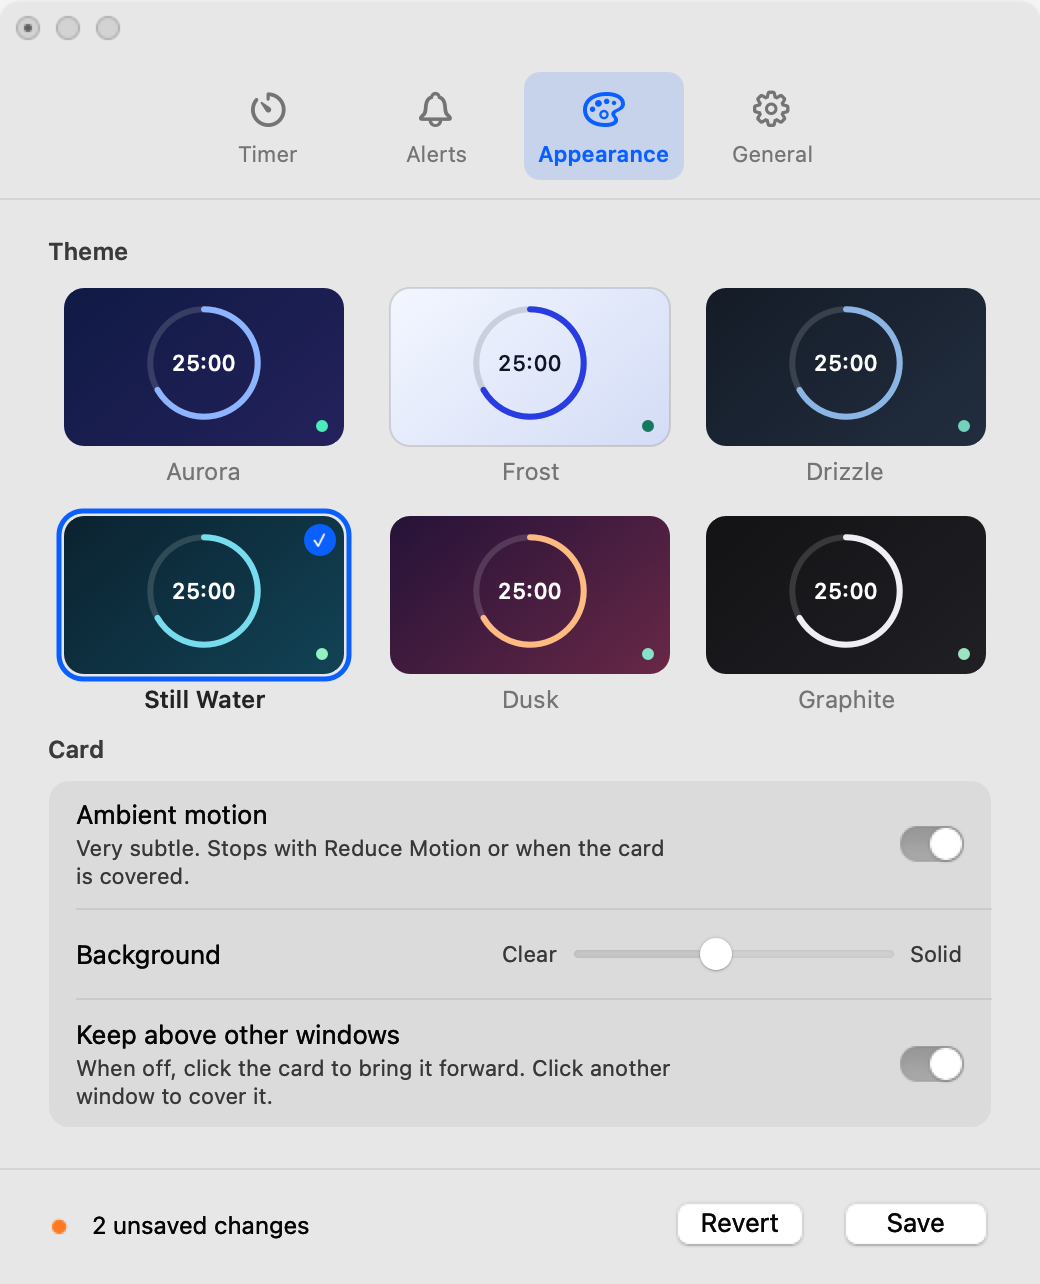
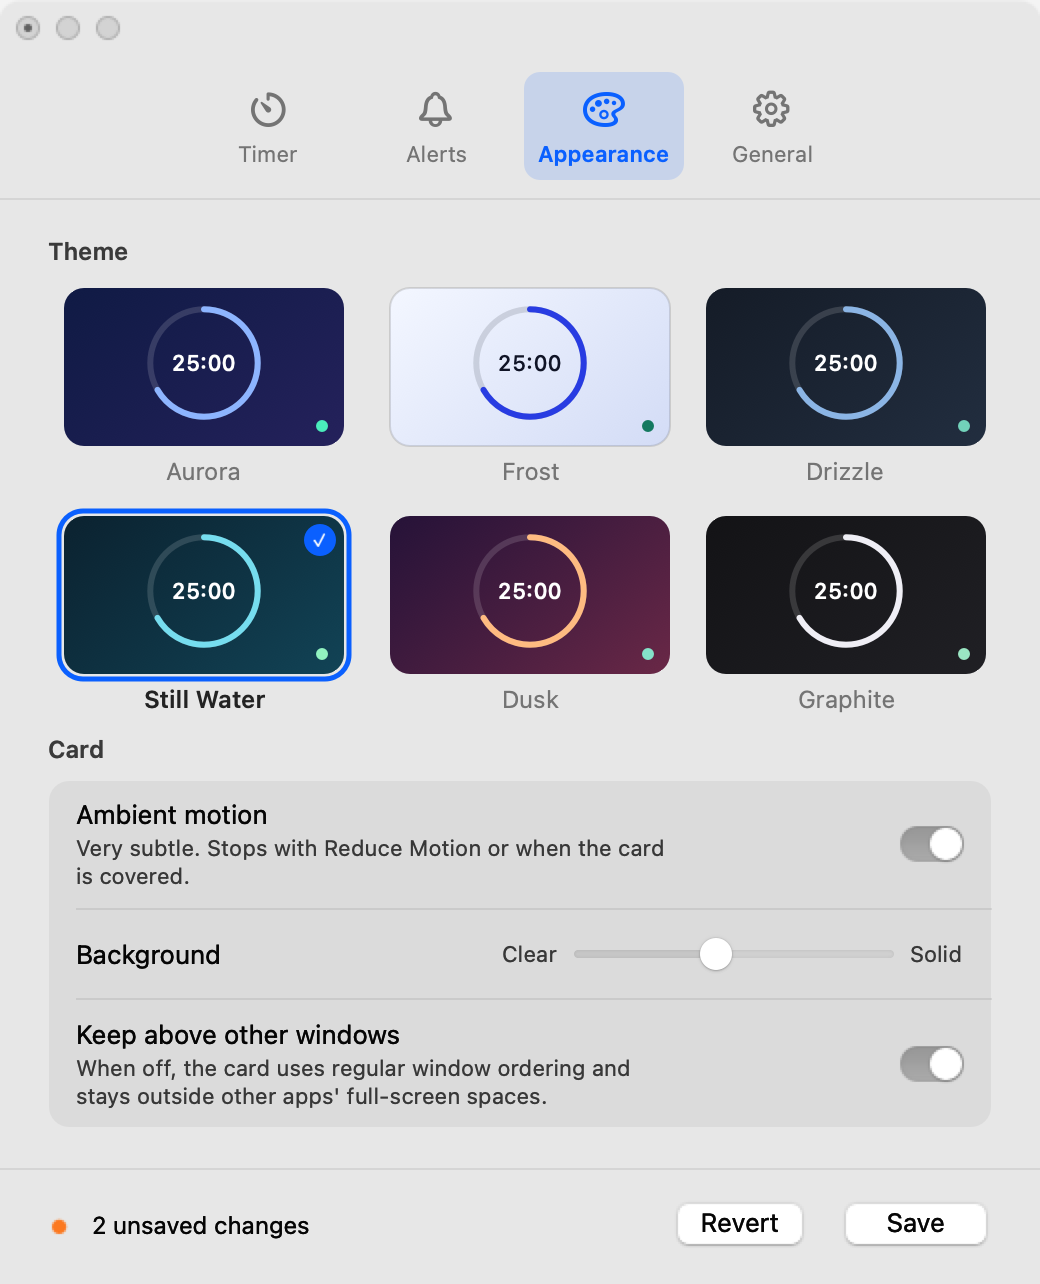
Respect full-screen spaces in normal window mode / 普通窗口模式遵循全屏空间设置

Changed region(s): [[0.0615, 0.81, 0.6462, 0.8723]]

diff --git a/src/FocusCard.m b/src/FocusCard.m
@@ -1409,8 +1409,9 @@ static void setTitle(NSMenuItem *i, NSString *s) { if (i && ![i.title isEqualToS
 
 - (void)applyCardWindowMode {
     self.panel.level = self.pinned ? NSFloatingWindowLevel : NSNormalWindowLevel;
-    self.panel.collectionBehavior = NSWindowCollectionBehaviorCanJoinAllSpaces | NSWindowCollectionBehaviorFullScreenAuxiliary
-        | (self.pinned ? NSWindowCollectionBehaviorStationary : NSWindowCollectionBehaviorManaged);
+    self.panel.collectionBehavior = self.pinned
+        ? NSWindowCollectionBehaviorCanJoinAllSpaces | NSWindowCollectionBehaviorFullScreenAuxiliary | NSWindowCollectionBehaviorStationary
+        : NSWindowCollectionBehaviorManaged | NSWindowCollectionBehaviorFullScreenNone;
 }
 - (void)showCard:(id)sender {
     BOOL onScreen = NO;
@@ -1732,7 +1733,7 @@ static const CGFloat kSettingsW = 520, kSettingsTop = 74, kSettingsBottom = 58;
     GroupBox *card = [self group:@[
         [self rowTitle:T(@"环境动效", @"Ambient motion") detail:[self note:T(@"非常轻微。开启“减少动态效果”或卡片被遮挡时自动停止。", @"Very subtle. Stops with Reduce Motion or when the card is covered.") width:300] control:self.ambientSwitch],
         [self rowTitle:T(@"背景", @"Background") detail:nil control:opacity],
-        [self rowTitle:T(@"显示在其他窗口上方", @"Keep above other windows") detail:[self note:T(@"关闭时，点击卡片前置；点击其他窗口时由该窗口覆盖。", @"When off, click the card to bring it forward. Click another window to cover it.") width:300] control:self.pinSwitch]]];
+        [self rowTitle:T(@"显示在其他窗口上方", @"Keep above other windows") detail:[self note:T(@"关闭时按普通窗口切换，不显示在其他应用的全屏空间。", @"When off, the card uses regular window ordering and stays outside other apps' full-screen spaces.") width:300] control:self.pinSwitch]]];
     return [self paneWith:@[[self caption:T(@"主题", @"Theme")], grid, [self caption:T(@"卡片", @"Card")], card]];
 }
 - (NSView *)generalPane {
@@ -2427,6 +2428,7 @@ static void selfTest(NSString *resultsPath) {
     {
         [a showSettingsPane:0 focusDuration:NO];
         CHECK(@"SV-01", @"Settings open clean: Save disabled, 'saved' status", ![a settingsDirty] && !a.saveButton.enabled && !a.revertButton.enabled && a.statusLabel.stringValue.length > 0, a.statusLabel.stringValue);
+        CHECK(@"SV-01a", @"An unpinned card starts outside other apps full-screen spaces", a.panel.collectionBehavior == (NSWindowCollectionBehaviorManaged | NSWindowCollectionBehaviorFullScreenNone), @"");
         a.pinSwitch.state = NSControlStateValueOn; [a switchChanged:a.pinSwitch];
         CHECK(@"SV-02", @"A change marks the draft: Save enabled, '1 unsaved change', nothing stored yet", [a settingsDirty] && a.saveButton.enabled && a.revertButton.enabled && a.settingsWindow.documentEdited
               && [a.statusLabel.stringValue isEqualToString:T(@"1 项未保存的更改", @"1 unsaved change")] && !a.pinned && ![d boolForKey:kPinned] && a.panel.level == NSNormalWindowLevel, a.statusLabel.stringValue);
@@ -2440,8 +2442,10 @@ static void selfTest(NSString *resultsPath) {
         a.pinSwitch.state = NSControlStateValueOn; [a switchChanged:a.pinSwitch]; BOOL saved = [a saveDraft];
         CHECK(@"SV-06", @"Save stores the change, applies it and confirms with the time", saved && a.pinned && [d boolForKey:kPinned] && a.panel.level == NSFloatingWindowLevel && ![a settingsDirty] && !a.saveButton.enabled
               && [a.statusLabel.stringValue hasPrefix:T(@"已保存 · ", @"Saved · ")], a.statusLabel.stringValue);
+        CHECK(@"SV-06a", @"Pinning allows the card in all spaces and full-screen spaces", a.panel.collectionBehavior == (NSWindowCollectionBehaviorCanJoinAllSpaces | NSWindowCollectionBehaviorFullScreenAuxiliary | NSWindowCollectionBehaviorStationary), @"");
         saveSetting(a, kPinned, @NO);
         CHECK(@"SV-07", @"Turning it off uses regular application window ordering", a.panel.level == NSNormalWindowLevel && !(a.panel.collectionBehavior & NSWindowCollectionBehaviorStationary) && ![d boolForKey:kPinned], @"");
+        CHECK(@"SV-07a", @"Saving unpinned mode removes full-screen and all-space participation", a.panel.collectionBehavior == (NSWindowCollectionBehaviorManaged | NSWindowCollectionBehaviorFullScreenNone), @"");
         [a durationEditedText:@"abc" rest:NO];
         CHECK(@"SV-08", @"An invalid length is explained and the field returns to the last valid value", [a.focusField.stringValue isEqualToString:@"25"] && [a.durationNote.textColor isEqual:NSColor.systemRedColor], a.durationNote.stringValue);
         a.focusField.stringValue = @"0"; [a controlTextDidChange:[NSNotification notificationWithName:NSControlTextDidChangeNotification object:a.focusField]];
@@ -2963,8 +2967,10 @@ static BOOL windowIsAbove(NSWindow *front, NSWindow *back) {
     [self step:@"UI-20" desc:@"Click Save: stored, 'Saved' with the time, Save disabled, running timer unchanged" wait:.5 shots:@[@"settings"] action:^(AppDelegate *a) { postClick(a.saveButton); }
          check:^NSString *(AppDelegate *a) { NSString *r = saved(a); return r ?: expect(a.focusMinutes == 41 && [a.defaults integerForKey:kFocus] == 41 && a.running && [a secondsRemaining] <= 1500, S(@"min=%ld", (long)a.focusMinutes)); }];
     [self step:@"UI-21" desc:@"Turn on 'Keep above': not applied until Save; Save floats the card" wait:.5 shots:@[] action:^(AppDelegate *a) { press(a.paneButtons[2]); toggleSwitch(a.pinSwitch); }
-         check:^NSString *(AppDelegate *a) { BOOL waiting = a.panel.level == NSNormalWindowLevel && [a settingsDirty]; press(a.saveButton); BOOL on = a.panel.level == NSFloatingWindowLevel && a.pinned;
-                                             toggleSwitch(a.pinSwitch); press(a.saveButton); BOOL off = a.panel.level == NSNormalWindowLevel && !a.pinned;
+         check:^NSString *(AppDelegate *a) { BOOL waiting = a.panel.level == NSNormalWindowLevel && [a settingsDirty]; press(a.saveButton); BOOL on = a.panel.level == NSFloatingWindowLevel && a.pinned
+                                                 && (a.panel.collectionBehavior & NSWindowCollectionBehaviorFullScreenAuxiliary) && (a.panel.collectionBehavior & NSWindowCollectionBehaviorCanJoinAllSpaces);
+                                             toggleSwitch(a.pinSwitch); press(a.saveButton); BOOL off = a.panel.level == NSNormalWindowLevel && !a.pinned
+                                                 && a.panel.collectionBehavior == (NSWindowCollectionBehaviorManaged | NSWindowCollectionBehaviorFullScreenNone);
                                              NSPoint p = [a.saveButton convertPoint:NSMakePoint(NSMidX(a.saveButton.bounds), NSMidY(a.saveButton.bounds)) toView:nil];
                                              NSView *hit = [a.settingsWindow.contentView.superview hitTest:[a.settingsWindow.contentView.superview convertPoint:p fromView:nil]];
                                              return expect(waiting && on && off, S(@"waiting=%d on=%d off=%d hit=%@ enabled=%d", waiting, on, off, hit.className, a.saveButton.enabled)); }];

diff --git a/docs/TESTING.md b/docs/TESTING.md
@@ -1,4 +1,4 @@
-# Validation report · FocusCard 3.1.3
+# Validation report · FocusCard 3.1.4
 
 [English](TESTING.md) | [简体中文](TESTING.zh-CN.md)
 
@@ -12,7 +12,7 @@ Date: 2026-10-21, Asia/Shanghai.
 | Architecture | Apple Silicon, arm64 |
 | SDK | macOS 15.2 |
 | Minimum build target | macOS 13.0 |
-| App version / build | 3.1.3 / 7 |
+| App version / build | 3.1.4 / 8 |
 | Signature | Ad hoc |
 | Apple notarization | None |
 
@@ -20,14 +20,14 @@ Date: 2026-10-21, Asia/Shanghai.
 
 | Suite | Passed | Failed | Blocked |
 | --- | ---: | ---: | ---: |
-| Chinese self-tests | 185 | 0 | 0 |
-| English self-tests | 185 | 0 | 0 |
-| Chinese live UI tests | 63 | 0 | 3 |
-| English live UI tests | 63 | 0 | 3 |
-| Total | 496 | 0 | 6 |
+| Chinese self-tests | 188 | 0 | 0 |
+| English self-tests | 188 | 0 | 0 |
+| Chinese live UI tests | 65 | 0 | 1 |
+| English live UI tests | 65 | 0 | 1 |
+| Total | 506 | 0 | 2 |
 
-The six blocked entries cover window drag, Command-W on the card, and Command-W on Settings in both languages.
-The keyboard checks need the test app to retain foreground focus.
+The table uses the latest complete run of each suite.
+Two blocked entries cover window drag, one in each language.
 They do not count as passes.
 
 ## Coverage
@@ -48,10 +48,11 @@ The self-tests model notification delivery and login registration.
 The live UI tests also replace these system operations.
 The tests do not change notification permission or login registration.
 
-A separate application window also covered the unpinned card when it activated.
-A computer-use click on the card brought the card above that window again.
-Window-server metadata showed that both windows used level 0.
-This check does not replace a physical mouse check.
+The self-tests check the window-space policy at startup and after both pinning changes.
+A separate native application also entered a full-screen space.
+The unpinned card stayed outside that space.
+The pinned card appeared in that space at window level 3.
+These two integration checks are separate from the suite totals above.
 
 ## Performance samples
 
@@ -61,17 +62,20 @@ These samples do not establish a long-term performance guarantee.
 
 | Measurement | Chinese run | English run | Test limit |
 | --- | ---: | ---: | ---: |
-| CPU, running with Drizzle motion | 1.05% | 1.24% | Below 2% |
-| CPU, idle with Graphite | 0.03% | 0.03% | Below 0.5% |
-| CPU, idle with card hidden | 0.13% | 0.09% | Diagnostic only |
-| Resident memory after UI tests | 77.9 MB | 53.0 MB | Below 120 MB |
+| CPU, running with Drizzle motion | 1.19% | 1.41% | Below 2% |
+| CPU, idle with Graphite | 0.04% | 0.03% | Below 0.5% |
+| CPU, idle with card hidden | 0.11% | 0.11% | Diagnostic only |
+| Resident memory after UI tests | 82.30 MB | 61.20 MB | Below 120 MB |
+
+Initial idle CPU samples reached 0.92% in Chinese and 1.63% in English, above the 0.5% limit.
+The complete repeated runs passed this limit.
+The release JSON retains both initial runs.
 
 ## Pending checks
 
 **Window drag needs a physical mouse check.**
 AppKit events did not move the window through the window server.
 The two drag entries remain blocked in this run.
-The foreground keyboard-close checks also need a manual check.
 
 The following checks also require a separate system test:
 
@@ -98,7 +102,9 @@ The self-tests store timer data in `focuscard.selftest`.
 The test app uses the same compiled executable before it receives a separate signature.
 
 The script refreshes Launch Services registration before launching the UI tests.
-The script uses the executable if Launch Services cannot launch the test app. Both recorded UI runs used this fallback.
+The script uses the executable if Launch Services cannot launch the test app.
+Both initial UI runs used this fallback.
+The repeated runs used the same test executable directly.
 The script checks the result file after the test app exits.
 The report counts completed result entries, including the final preference check.
 The raw UI JSON total field records the planned steps.
@@ -116,7 +122,7 @@ The package script requires committed source changes.
 It builds the app, creates a ZIP archive, and checks the archive.
 It extracts the app and checks the signature.
 It compares the executable bytes before and after extraction.
-It runs 185 self-tests in each language on the extracted app.
+It runs 188 self-tests in each language on the extracted app.
 The release also supplies build information and SHA-256 checksums.
 
 The packaged self-tests repeat the existing checks.

diff --git a/docs/TESTING.zh-CN.md b/docs/TESTING.zh-CN.md
@@ -1,4 +1,4 @@
-# 验证报告 · 专注卡片 3.1.3
+# 验证报告 · 专注卡片 3.1.4
 
 [English](TESTING.md) | [简体中文](TESTING.zh-CN.md)
 
@@ -12,7 +12,7 @@
 | 架构 | Apple Silicon，arm64 |
 | SDK | macOS 15.2 |
 | 最低构建目标 | macOS 13.0 |
-| 应用版本 / 构建号 | 3.1.3 / 7 |
+| 应用版本 / 构建号 | 3.1.4 / 8 |
 | 签名 | 临时签名 |
 | Apple 公证 | 无 |
 
@@ -20,14 +20,14 @@
 
 | 测试集 | 通过 | 失败 | 受限 |
 | --- | ---: | ---: | ---: |
-| 中文自检 | 185 | 0 | 0 |
-| 英文自检 | 185 | 0 | 0 |
-| 中文实时 UI 测试 | 63 | 0 | 3 |
-| 英文实时 UI 测试 | 63 | 0 | 3 |
-| 合计 | 496 | 0 | 6 |
+| 中文自检 | 188 | 0 | 0 |
+| 英文自检 | 188 | 0 | 0 |
+| 中文实时 UI 测试 | 65 | 0 | 1 |
+| 英文实时 UI 测试 | 65 | 0 | 1 |
+| 合计 | 506 | 0 | 2 |
 
-六项受限记录涉及中英文各自的窗口拖动、卡片 Command-W 和设置窗口 Command-W。
-键盘关闭检查需要测试应用持续保有前台焦点。
+上表采用各测试集最近一次完整运行的结果。
+两项受限记录分别为中英文窗口拖动检查。
 受限记录不计为通过。
 
 ## 覆盖范围
@@ -47,10 +47,9 @@
 自检和实时 UI 测试均替代了系统通知发送和登录项注册操作。
 测试不会更改系统通知权限或登录项注册状态。
 
-另用独立应用窗口验证：该应用激活后可覆盖关闭置顶的卡片。
-通过桌面交互工具点击卡片后，卡片可重新前置。
-窗口服务器元数据确认两个窗口均处于第 0 层。
-此检查不替代实体鼠标复核。
+自检覆盖启动、开启置顶和关闭置顶后的窗口空间配置。
+另用独立原生应用进入全屏空间：关闭置顶时卡片不在该空间中，开启置顶时卡片可见，窗口层级为 3。
+这两项集成检查单独记录，不计入上表测试集总数。
 
 ## 性能采样
 
@@ -60,17 +59,19 @@
 
 | 指标 | 中文运行 | 英文运行 | 测试阈值 |
 | --- | ---: | ---: | ---: |
-| 细雨动效下运行计时的 CPU | 1.05% | 1.24% | 低于 2% |
-| 石墨主题空闲时的 CPU | 0.03% | 0.03% | 低于 0.5% |
-| 卡片隐藏且空闲时的 CPU | 0.13% | 0.09% | 仅记录 |
-| UI 测试结束后的常驻内存 | 77.9 MB | 53.0 MB | 低于 120 MB |
+| 细雨动效下运行计时的 CPU | 1.19% | 1.41% | 低于 2% |
+| 石墨主题空闲时的 CPU | 0.04% | 0.03% | 低于 0.5% |
+| 卡片隐藏且空闲时的 CPU | 0.11% | 0.11% | 仅记录 |
+| UI 测试结束后的常驻内存 | 82.30 MB | 61.20 MB | 低于 120 MB |
+
+首次空闲 CPU 采样分别为中文 0.92%、英文 1.63%，超过 0.5% 阈值。
+完整复测均通过该阈值。发布 JSON 同时保留首次运行结果。
 
 ## 待确认范围
 
 **窗口拖动需要实体鼠标复核。**
 AppKit 合成事件未能通过窗口服务器移动窗口。
 本次两项拖动检查仍为受限。
-涉及前台焦点的键盘关闭操作也需要人工复核。
 
 以下项目也需要单独进行系统测试：
 
@@ -97,7 +98,7 @@ bash scripts/test.sh
 测试应用使用同一编译产物，并为独立应用标识重新签名。
 
 脚本启动 UI 测试前会刷新 Launch Services 注册。
-Launch Services 无法启动测试应用时，脚本改为直接运行可执行文件。本次中英文 UI 测试均使用此方式。
+Launch Services 无法启动测试应用时，脚本改为直接运行可执行文件。首次中英文运行均使用此方式；复测直接运行同一测试产物。
 脚本会在测试应用退出后检查结果文件。
 报告按已完成的结果条目计数，包含最后的偏好设置保持检查。
 原始 UI JSON 的 total 字段表示计划步骤数；发布报告另记实际完成数量。
@@ -113,7 +114,7 @@ bash scripts/package.sh
 打包脚本要求先提交源码更改。
 脚本会构建应用、生成 ZIP 压缩包并检查压缩包。
 随后会解压应用，检查签名和解压前后的可执行文件是否一致。
-脚本还会在解压后的应用上运行中英文各 185 项自检。
+脚本还会在解压后的应用上运行中英文各 188 项自检。
 发布附件同时提供构建信息与 SHA-256 校验文件。
 
 发布包自检重复了现有检查，不计入上表中的新增覆盖数量。

diff --git a/README.md b/README.md
@@ -80,7 +80,7 @@ The app does not use the network.
 
 ## Download
 
-[Download version 3.1.3](https://github.com/hzxwonder/focus-card-macos/releases/tag/v3.1.3).
+[Download version 3.1.4](https://github.com/hzxwonder/focus-card-macos/releases/tag/v3.1.4).
 Select the archive for Apple Silicon (`arm64`).
 Extract the archive.
 Move `FocusCard.app` to Applications.
@@ -181,7 +181,8 @@ Changes are a draft until you select **Save** (or press Return).
 - A new language applies after the app opens again. Select **Relaunch Now**. The timer continues.
 
 When **Keep above other windows** is off, click the card to bring it forward. Click another app window to place that window in front of the card.
-When this option is on, the card stays above regular app windows.
+When this option is off, the card stays outside other apps' full-screen spaces.
+When this option is on, the card stays above regular app windows and can appear in full-screen spaces.
 
 ## Notifications
 
@@ -226,8 +227,8 @@ The tests open windows and prompts on the current desktop.
 JSON results and logs appear in `build/test-results/`.
 A blocked check does not count as a pass.
 
-The current run passed 496 checks, with no failed checks.
-Six entries need manual checks for window drag or foreground keyboard focus.
+The current run passed 506 checks, with no failed checks.
+Two entries need physical mouse checks for window drag.
 See [the validation report](docs/TESTING.md) for results, performance measurements, and test limits.
 
 You can run the self-tests directly:

diff --git a/README.zh-CN.md b/README.zh-CN.md
@@ -77,7 +77,7 @@
 
 ## 下载
 
-[下载 3.1.3 版](https://github.com/hzxwonder/focus-card-macos/releases/tag/v3.1.3)。
+[下载 3.1.4 版](https://github.com/hzxwonder/focus-card-macos/releases/tag/v3.1.4)。
 选择 Apple Silicon（`arm64`）软件包。
 解压后，将 `FocusCard.app` 移到“应用程序”目录。
 打开应用。
@@ -172,7 +172,8 @@
 - 新语言在应用重新打开后生效。选择“立即重新打开”即可，计时不中断。
 
 关闭“显示在其他窗口上方”后，点击卡片会前置；点击其他软件窗口时，该窗口会覆盖卡片。
-开启此选项后，卡片保持在普通应用窗口上方。
+关闭此选项后，卡片不显示在其他应用的全屏空间。
+开启此选项后，卡片保持在普通应用窗口上方，并可显示在全屏空间。
 
 ## 通知
 
@@ -216,7 +217,7 @@ UI 测试使用独立的应用标识和偏好设置域。
 JSON 结果与日志位于 `build/test-results/`。
 受自动化环境限制的检查不计为通过。
 
-本次共通过 496 项检查，没有失败项；六项记录需要人工复核窗口拖动或前台键盘焦点。
+本次共通过 506 项检查，没有失败项；两项记录需要实体鼠标复核窗口拖动。
 具体结果、性能测量和测试范围见[验证报告](docs/TESTING.zh-CN.md)。
 
 也可以直接运行自检：
